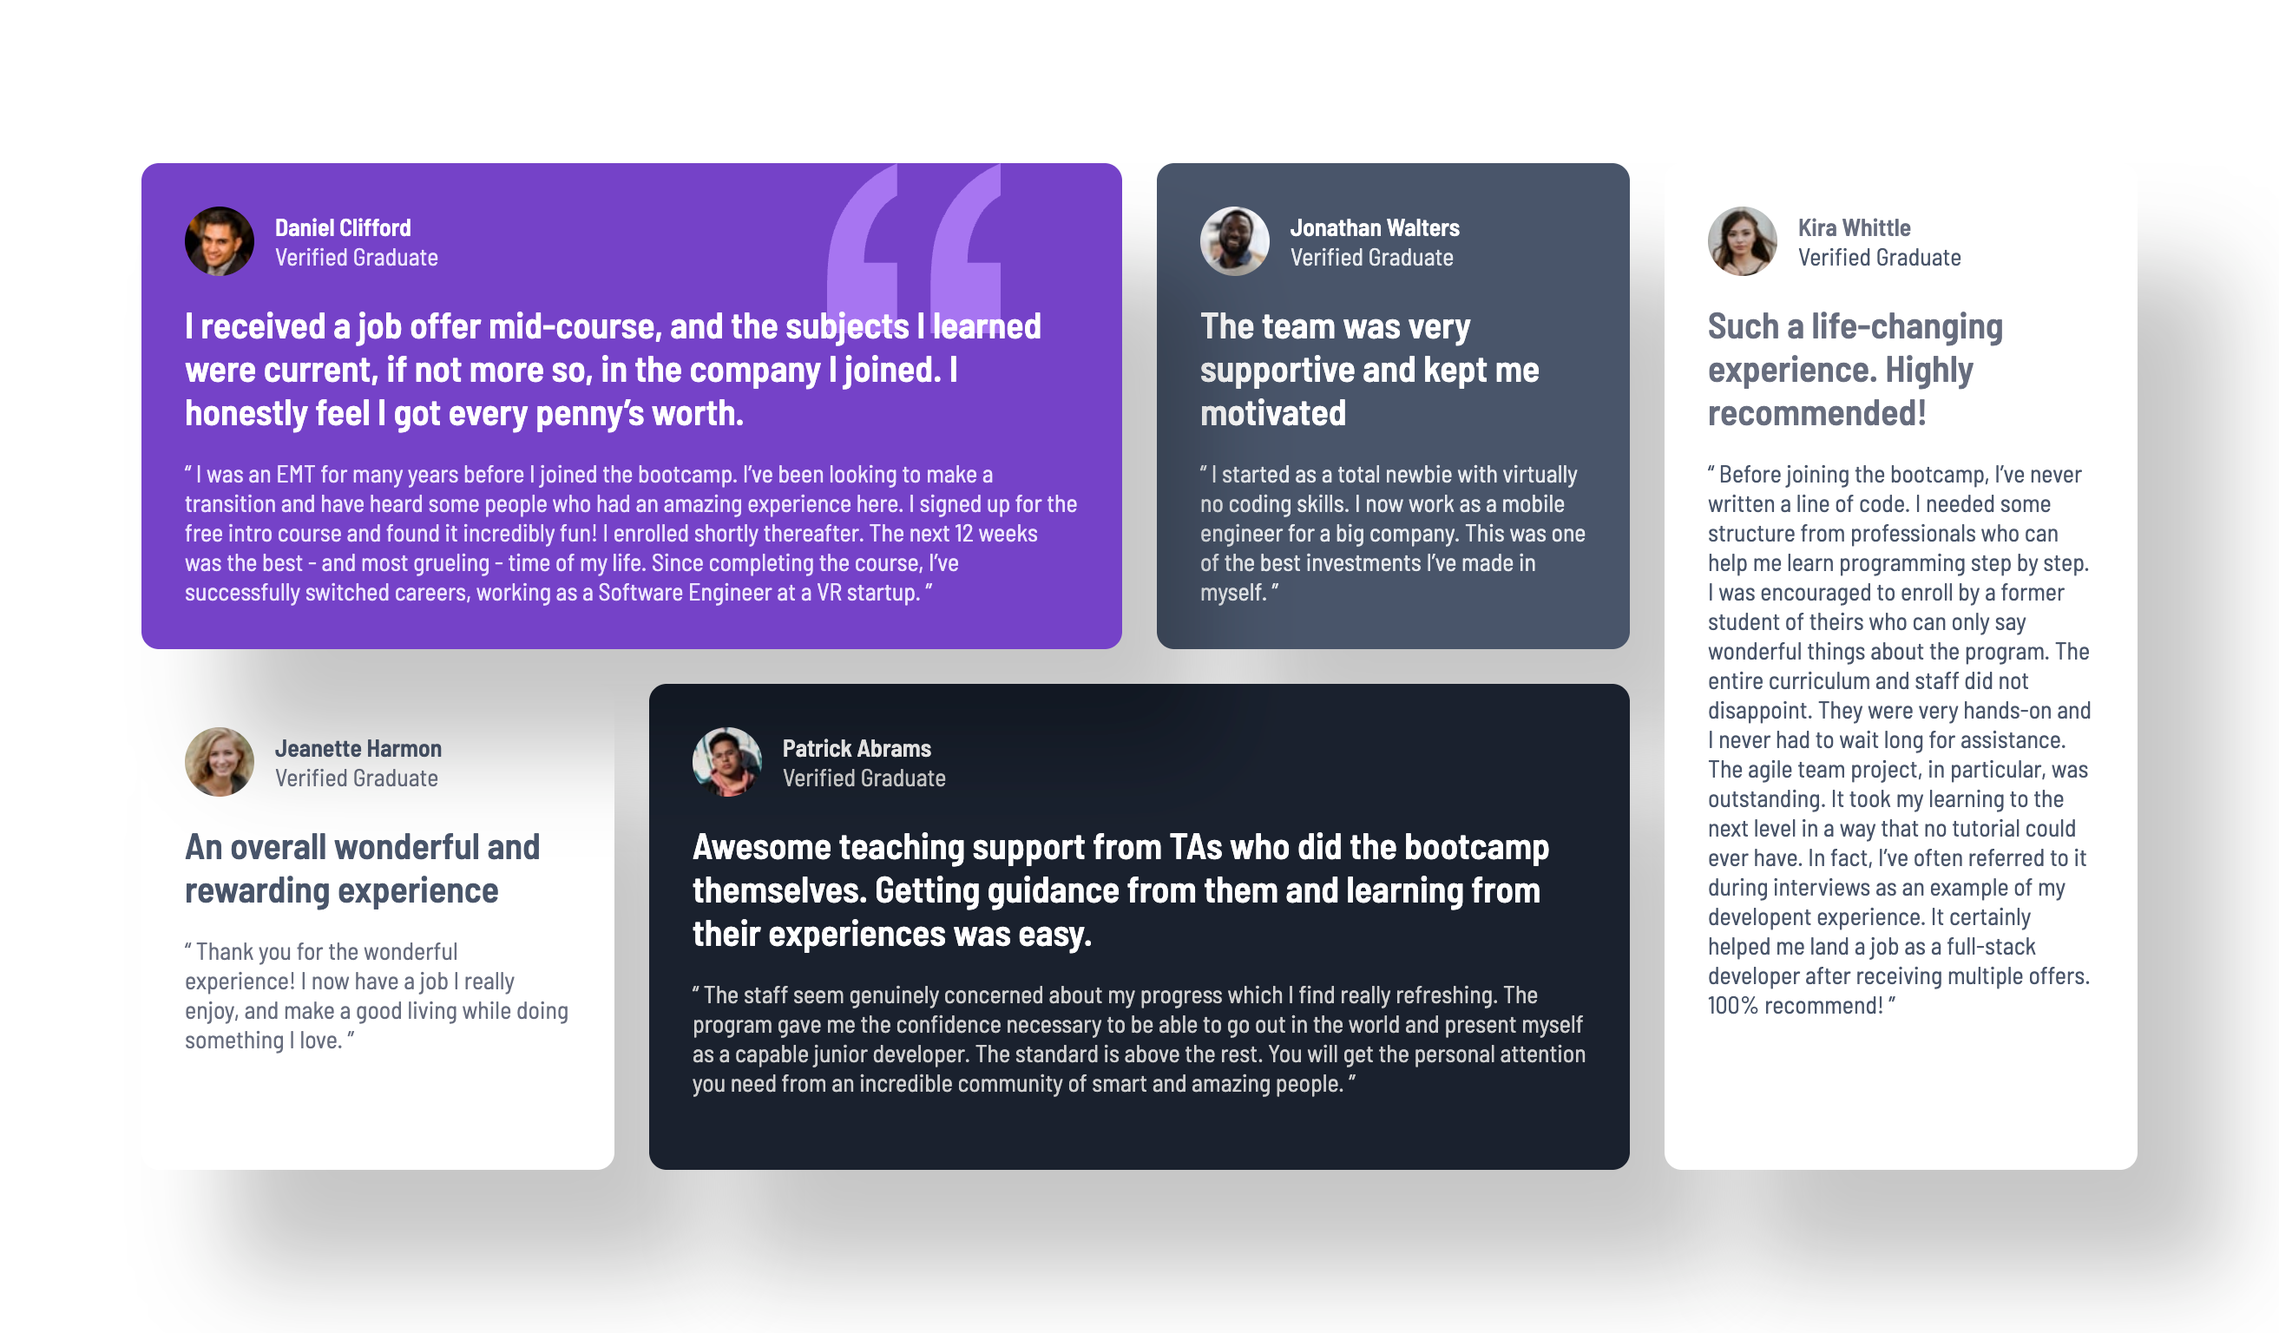
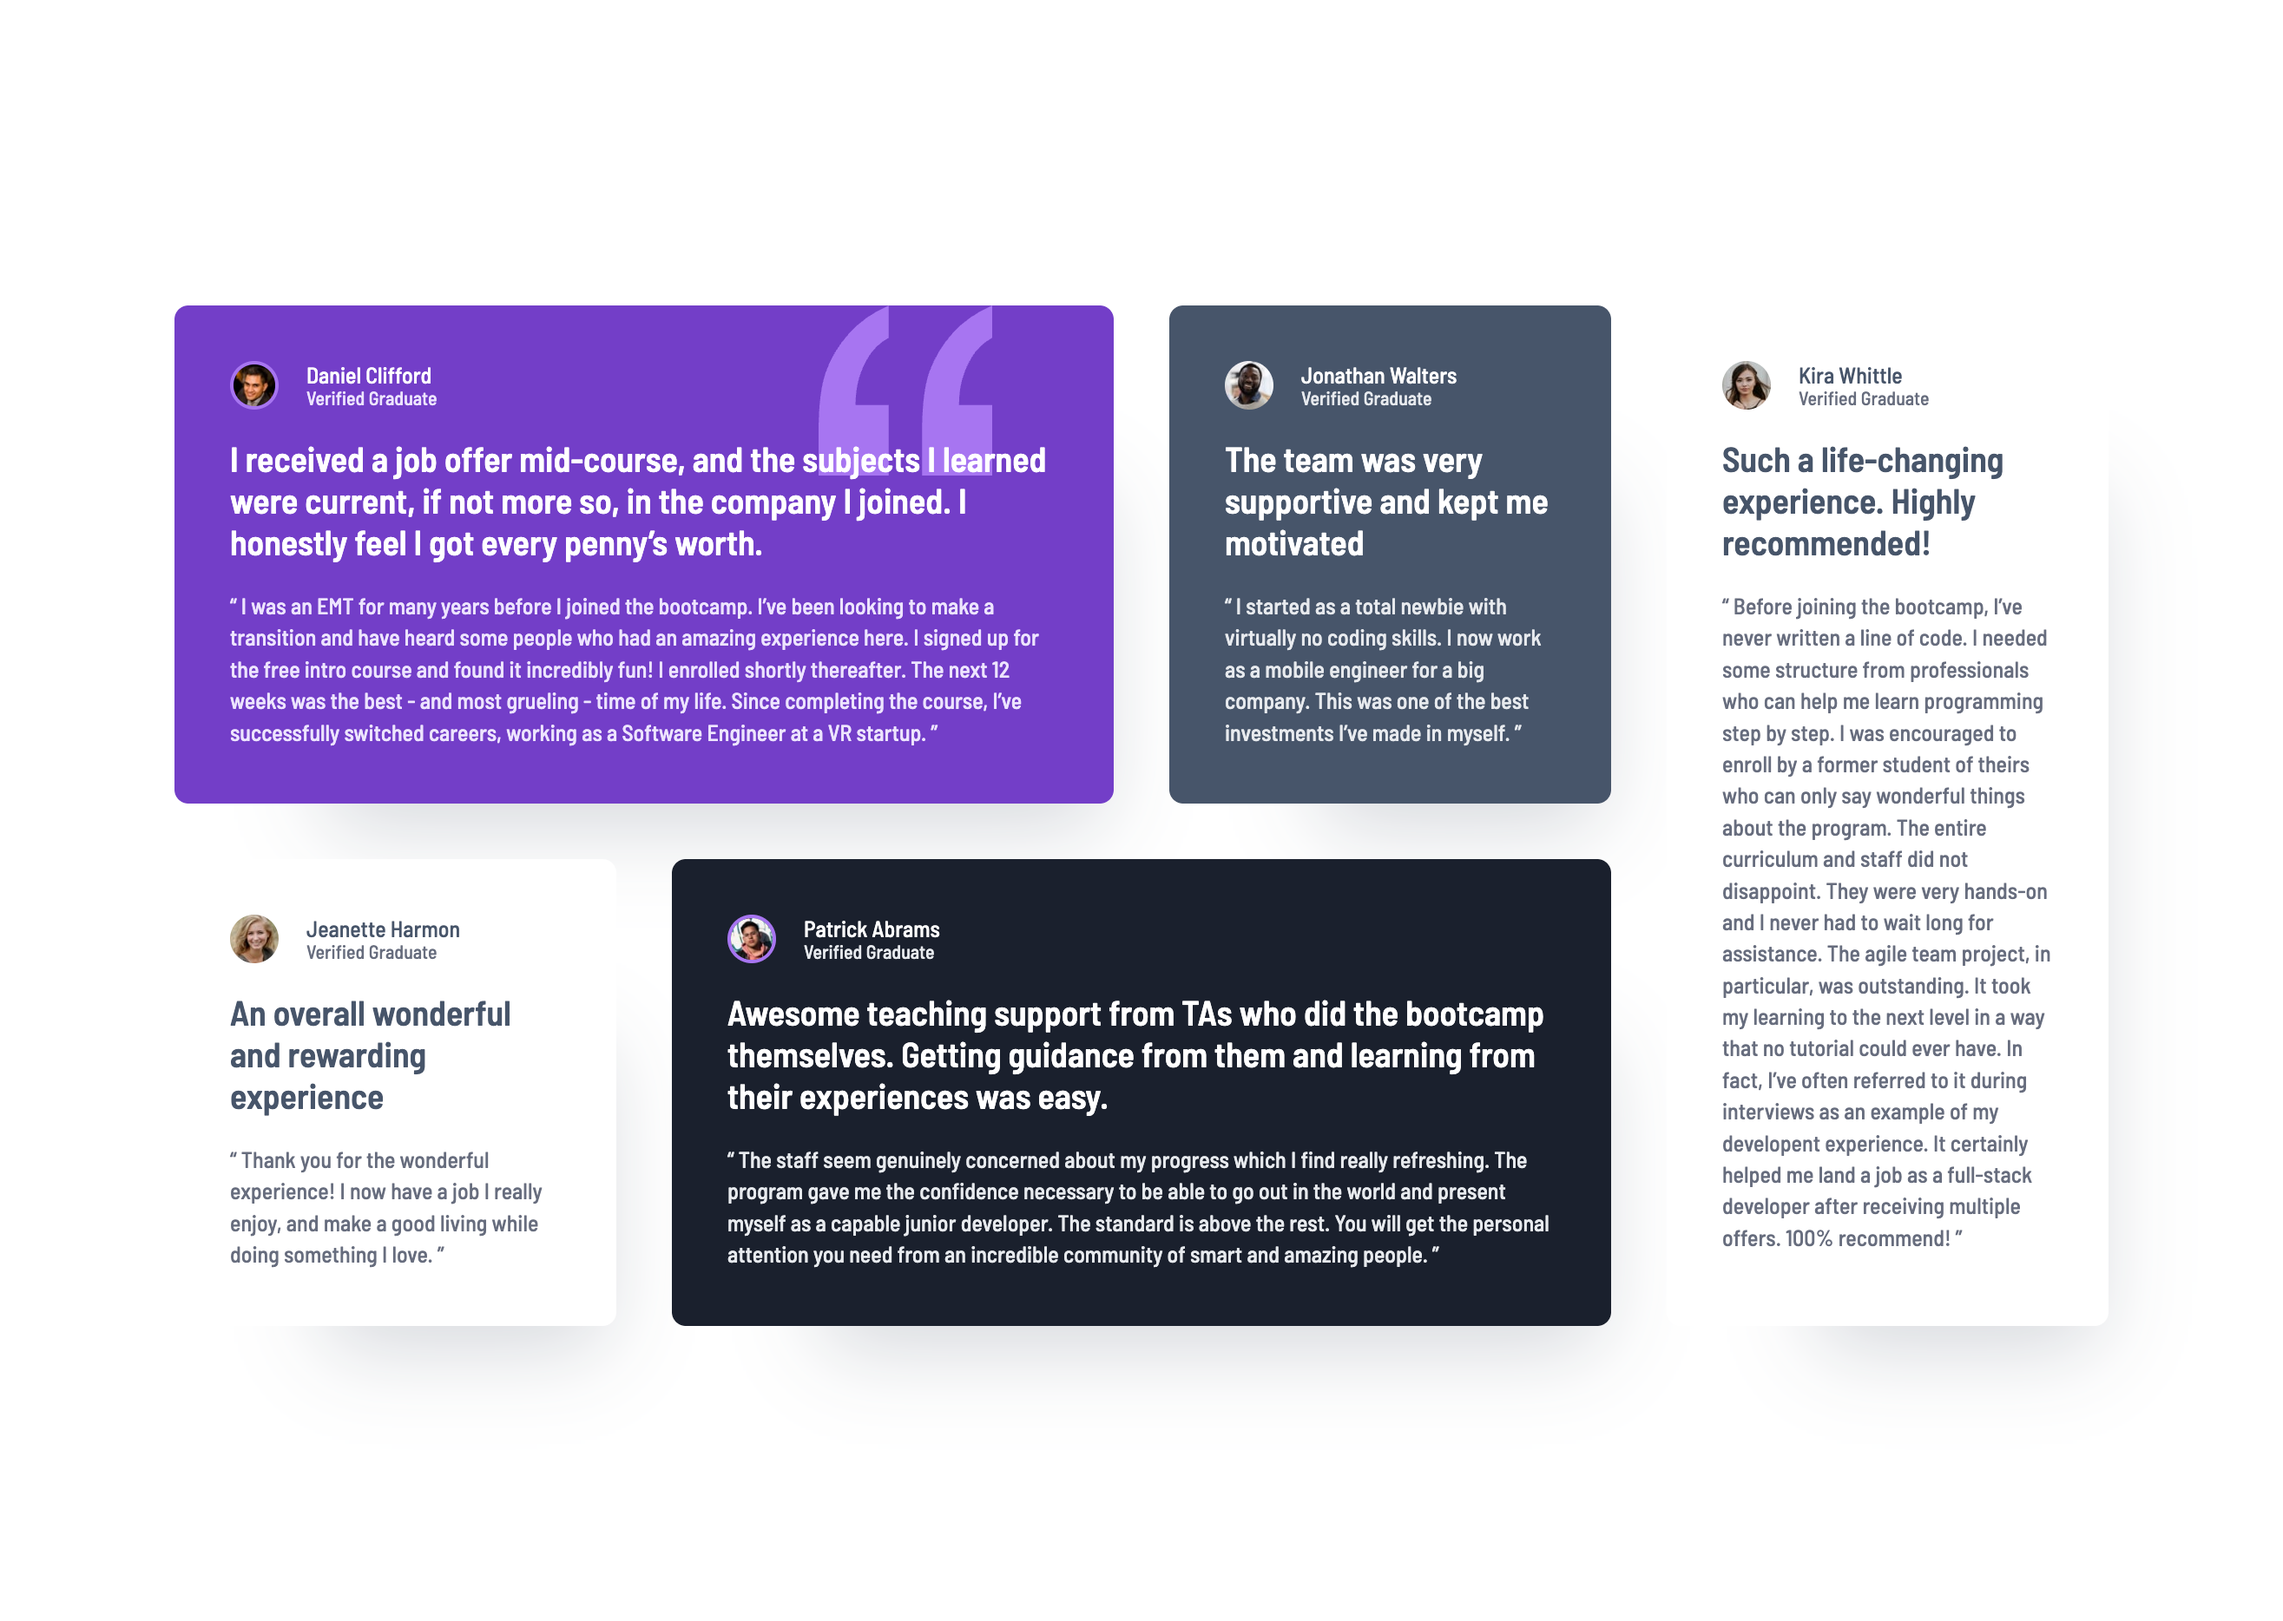
Updated V2.0

diff --git a/style.css b/style.css
@@ -1,15 +1,49 @@
 :root {
-  --purple-50: hsl(260, 100%, 95%);
-  --purple-300: hsl(264, 82%, 80%);
-  --purple-500: hsl(263, 55%, 52%);
-  --white: hsl(0, 0%, 100%);
-  --grey-100: hsl(214, 17%, 92%);
-  --grey-200: hsl(0, 0%, 81%);
-  --grey-400: hsl(224, 10%, 45%);
-  --grey-500: hsl(217, 19%, 35%);
-  --dark-blue: hsl(219, 29%, 14%);
-  --black: hsl(0, 0%, 7%);
-  --shadow: rgba(0, 0, 0, 0.25);
+  /* Colors */
+  --black: #121212;
+  --dark-blue: #19202d;
+  --white: #fff;
+  --grey-100: #e7eaee;
+  --grey-200: #cfcfcf;
+  --grey-400: #676d7e;
+  --grey-500: #48556a;
+  --purple-50: #ede4ff;
+  --purple-300: #a775f1;
+  --purple-500: #733fc8;
+  --shadow: rgba(72, 85, 106, 0.25);
+
+  /* Typography - Font Family */
+  --font-family: "Barlow Semi Condensed", sans-serif;
+
+  /* Text Preset 1 */
+  --tp-1-size: 2rem;
+  --tp-1-weight: 600;
+  --tp-1-line-height: 1.2;
+
+  /* Text Preset 2 */
+  --tp-2-size: 1.3rem;
+  --tp-2-weight: 500;
+  --tp-2-line-height: 1.1;
+
+  /* Text Preset 3 */
+  --tp-3-size: 1.3rem;
+  --tp-3-weight: 500;
+  --tp-3-line-height: 1.4;
+
+  /* Text Preset 4 */
+  --tp-4-size: 1.1rem;
+  --tp-4-weight: 500;
+  --tp-4-line-height: 1.1;
+
+  /* Spacing */
+  --spacing-1600: 12.8rem;
+  --spacing-600: 4.8rem;
+  --spacing-500: 4rem;
+  --spacing-400: 3.2rem;
+  --spacing-300: 2.4rem;
+  --spacing-200: 1.6rem;
+  --spacing-150: 1.2rem;
+  --spacing-100: 0.8rem;
 }
 
 * {
@@ -26,9 +60,10 @@ html {
 }
 
 body {
-  font-family: "Barlow Semi Condensed", sans-serif;
+  font-family: var(--font-family);
   background-color: var(--white);
   min-height: 100vh;
+  padding: var(--spacing-300);
 
   display: flex;
   justify-content: center;
@@ -36,18 +71,18 @@ body {
 }
 
 .testimonial-grid {
-  height: 58rem;
-  width: 115rem;
+  height: 58.2rem;
+  width: 111.4rem;
   display: grid;
   grid-template-columns: repeat(4, 1fr);
   grid-template-rows: repeat(2, 1fr);
-  gap: 2rem;
+  gap: var(--spacing-400);
 }
 
 .testimonial {
-  border-radius: 1rem;
-  padding: 2.5rem;
-  box-shadow: 5rem 6rem 5rem rgba(0, 0, 0, 0.25);
+  border-radius: 0.8rem;
+  padding: var(--spacing-400);
+  box-shadow: 4rem 6rem 5rem -4.7rem var(--shadow);
 }
 
 .testimonial-daniel {
@@ -55,7 +90,6 @@ body {
   grid-row: 1;
   background-color: var(--purple-500);
   color: var(--purple-50);
-  position: relative;
 
   background-image: url("images/bg-pattern-quotation.svg");
   background-repeat: no-repeat;
@@ -82,12 +116,12 @@ body {
   grid-column: 4;
   grid-row: 1 / span 2;
   background-color: var(--white);
-  color: var(--grey-500);
+  color: var(--grey-400);
 }
 
 .testimonial-kira .testimonial-name,
 .testimonial-kira .testimonial-detail-1 {
-  color: var(--grey-400);
+  color: var(--grey-500);
 }
 
 .testimonial-jeanette {
@@ -106,7 +140,7 @@ body {
   grid-column: 2 / span 2;
   grid-row: 2;
   background-color: var(--dark-blue);
-  color: var(--grey-200);
+  color: var(--grey-100);
 }
 
 .testimonial-patrick .testimonial-name,
@@ -115,43 +149,101 @@ body {
 }
 
 .testimonial-header {
-  font-size: 1.4rem;
   display: flex;
   align-items: center;
-  gap: 1.2rem;
-  margin-bottom: 1.5rem;
+  gap: var(--spacing-200);
+  margin-bottom: var(--spacing-200);
 }
 
 .testimonial-name {
-  font-weight: 600;
+  font-size: var(--tp-2-size);
+  font-weight: var(--tp-2-weight);
+  line-height: var(--tp-2-line-height);
+}
+
+.testimonial-title {
+  font-size: var(--tp-4-size);
+  font-weight: var(--tp-4-weight);
+  line-height: var(--tp-4-line-height);
 }
 
 .testimonial-img {
-  height: 4rem;
+  height: 2.8rem;
   border-radius: 50%;
 }
 
+.img-border {
+  border: solid 2px var(--purple-300);
+}
+
 .testimonial-detail-1 {
-  font-size: 2.1rem;
-  font-weight: 600;
-  margin-bottom: 1.5rem;
+  font-size: var(--tp-1-size);
+  font-weight: var(--tp-1-weight);
+  line-height: var(--tp-1-line-height);
+  margin-bottom: var(--spacing-200);
 }
 
 .testimonial-detail-2 {
-  font-size: 1.4rem;
+  font-size: var(--tp-3-size);
+  font-weight: var(--tp-3-weight);
+  line-height: var(--tp-3-line-height);
 }
 
 /* rem and em do NOT depend on html font-size in media queries! Instead, 1rem = 1em = 16px */
+/* Tablet = 768px = 48em */
 /* Mobile = 384px = 24em */
+
+/******************************************/
+/* BELOW 768px (Tablet) */
+/******************************************/
+@media (max-width: 48em) {
+  body {
+    padding: var(--spacing-600) var(--spacing-300);
+  }
+
+  .testimonial-grid {
+    grid-template-columns: repeat(2, 1fr);
+    grid-template-rows: repeat(4, 1fr);
+    gap: 3.2rem;
+    height: 115.7rem;
+    width: 64.7rem;
+  }
+
+  .testimonial-daniel {
+    grid-column: 1 / span 2;
+    grid-row: 1;
+  }
+
+  .testimonial-jonathan {
+    grid-column: 1;
+    grid-row: 2;
+  }
+  .testimonial-kira {
+    grid-column: 1 / span 2;
+    grid-row: 4;
+  }
+  .testimonial-jeanette {
+    grid-column: 2;
+    grid-row: 2;
+  }
+  .testimonial-patrick {
+    grid-column: 1 / span 2;
+    grid-row: 3;
+  }
+}
 
 /******************************************/
 /* BELOW 384px (Mobile) */
 /******************************************/
 @media (max-width: 24em) {
   body {
-    padding: 5rem 2rem;
-
+    padding: var(--spacing-600) var(--spacing-300);
     display: block;
+  }
+
+  .testimonial {
+    grid-column: auto;
+    grid-row: auto;
   }
 
   .testimonial-grid {

diff --git a/index.html b/index.html
@@ -26,7 +26,7 @@
       <article class="testimonial testimonial-daniel">
         <header class="testimonial-header">
           <img
-            class="testimonial-img"
+            class="testimonial-img img-border"
             src="images/image-daniel.jpg"
             alt="Daniel Picture"
           />
@@ -100,7 +100,7 @@
       <article class="testimonial testimonial-patrick">
         <header class="testimonial-header">
           <img
-            class="testimonial-img"
+            class="testimonial-img img-border"
             src="images/image-patrick.jpg"
             alt="Patrick Picture"
           />

diff --git a/README.md b/README.md
@@ -2,31 +2,27 @@
 
 This is a Testimonials Grid Section that you can use on your websites.
 
-## Table of contents
+## Screenshots
 
-- [Screenshot](#screenshot)
-- [Links](#links)
-- [Built with](#built-with)
-- [Author](#author)
-
-## Screenshot
-
-- [Desktop Screenshot](desktop-screenshot.png)
-- [Mobile Screenshot](mobile-screenshot.png)
+- **Desktop:** ![Desktop Screenshot](desktop-screenshot.png)
+- **Tablet:** ![Tablet Screenshot](tablet-screenshot.png)
+- **Mobile:** ![Mobile Screenshot](mobile-screenshot.png)
 
 ## Links
 
-- Solution URL: [Testimonials Grid Section Solution](https://github.com/altindaselif/testimonials-grid-section-main)
-- Live Site URL: [Testimonials Grid Section Live](https://altindaselif.github.io/testimonials-grid-section-main/)
+- **GitHub Repository:** [View Code](https://github.com/altindaselif/testimonials-grid-section-main)
+- **Live Demo:** [View Live Site](https://altindaselif.github.io/testimonials-grid-section-main/)
 
-## Built with
+## Built With
 
-- Semantic HTML5 markup
-- CSS custom properties
-- Flexbox
-- CSS Grid
-- Responsive site
+- **Semantic HTML5** – meaningful markup for accessibility
+- **CSS Custom Properties** – easier theming and maintenance
+- **Flexbox** – flexible layout alignment
+- **CSS Grid** – for responsive layouts
+- **Responsive Design** – adapts to different screen sizes
+- **Desktop-First Workflow** – desktop-first, then adapted to smaller devices
 
 ## Author
 
-- Linkedin - [Elif Altındaş](https://www.linkedin.com/in/elifaltindas/)
+- **LinkedIn:** [Elif Altındaş](https://www.linkedin.com/in/elifaltindas/)
+- **Frontend Mentor:** [@altindaselif](https://www.frontendmentor.io/profile/altindaselif)
